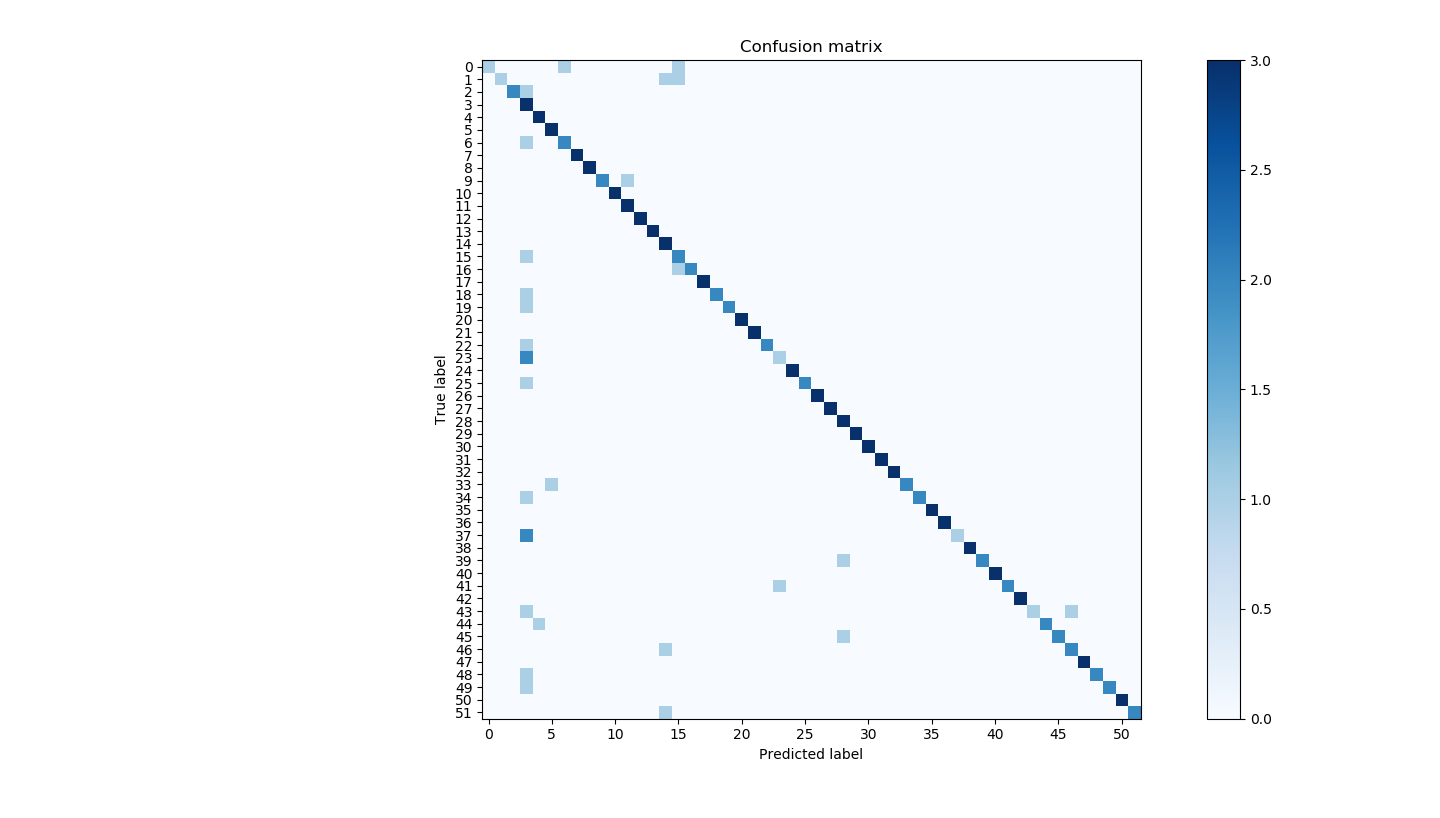
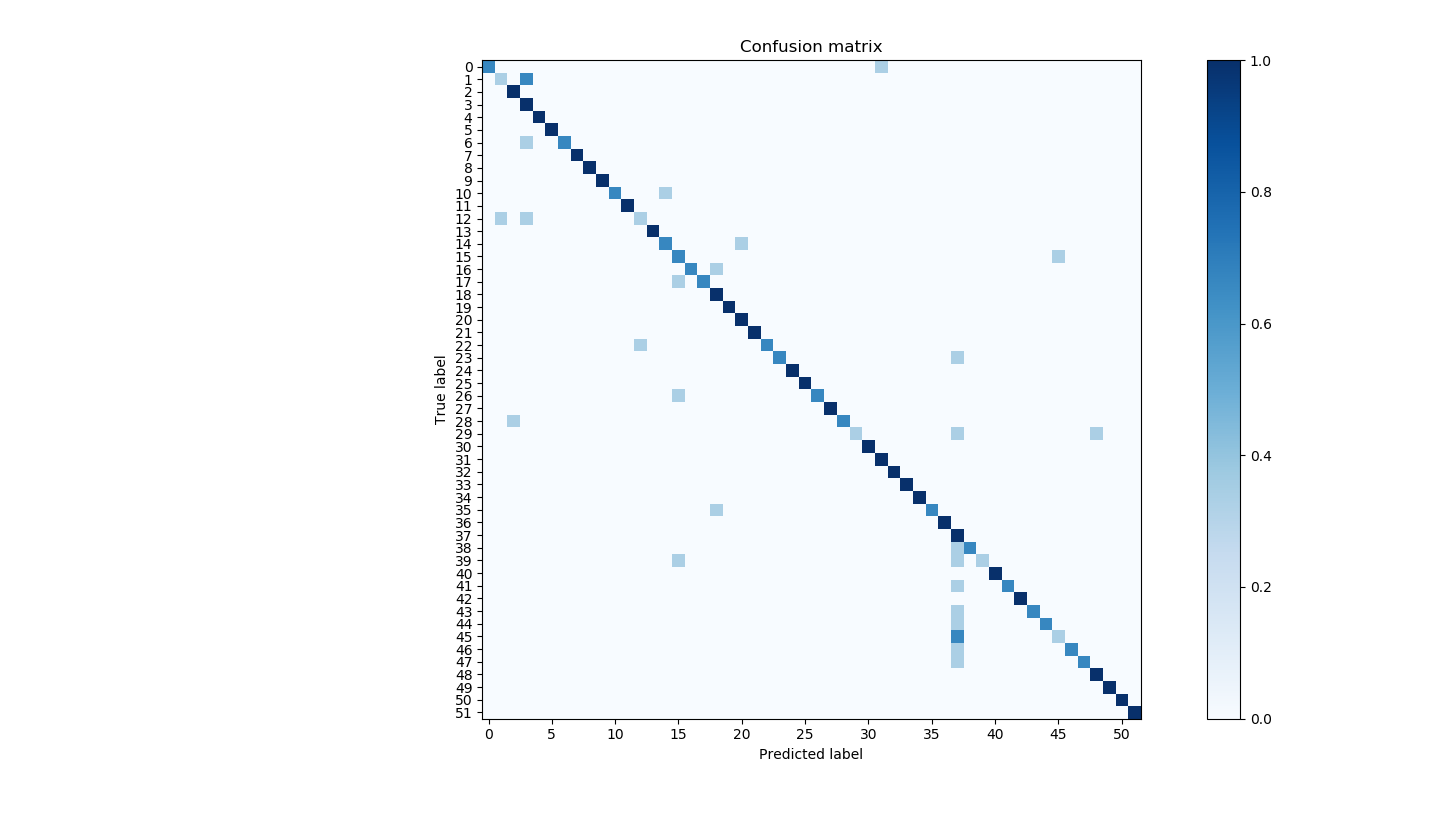
yala

diff --git a/ex2LDA.py b/ex2LDA.py
@@ -238,7 +238,7 @@ if __name__ == '__main__':
         ground_truth = create_ground_truth()
         conf_matrix = confusion_matrix(ground_truth, classification)
         if DISPLAY:
-            plot_confusion_matrix(conf_matrix, np.arange(0, NUMBER_PEOPLE))
+            plot_confusion_matrix(conf_matrix, np.arange(0, NUMBER_PEOPLE), normalize=True)
         bool_array, accuracy = bool_and_accuracy(ground_truth, classification)
 
         print(accuracy)
